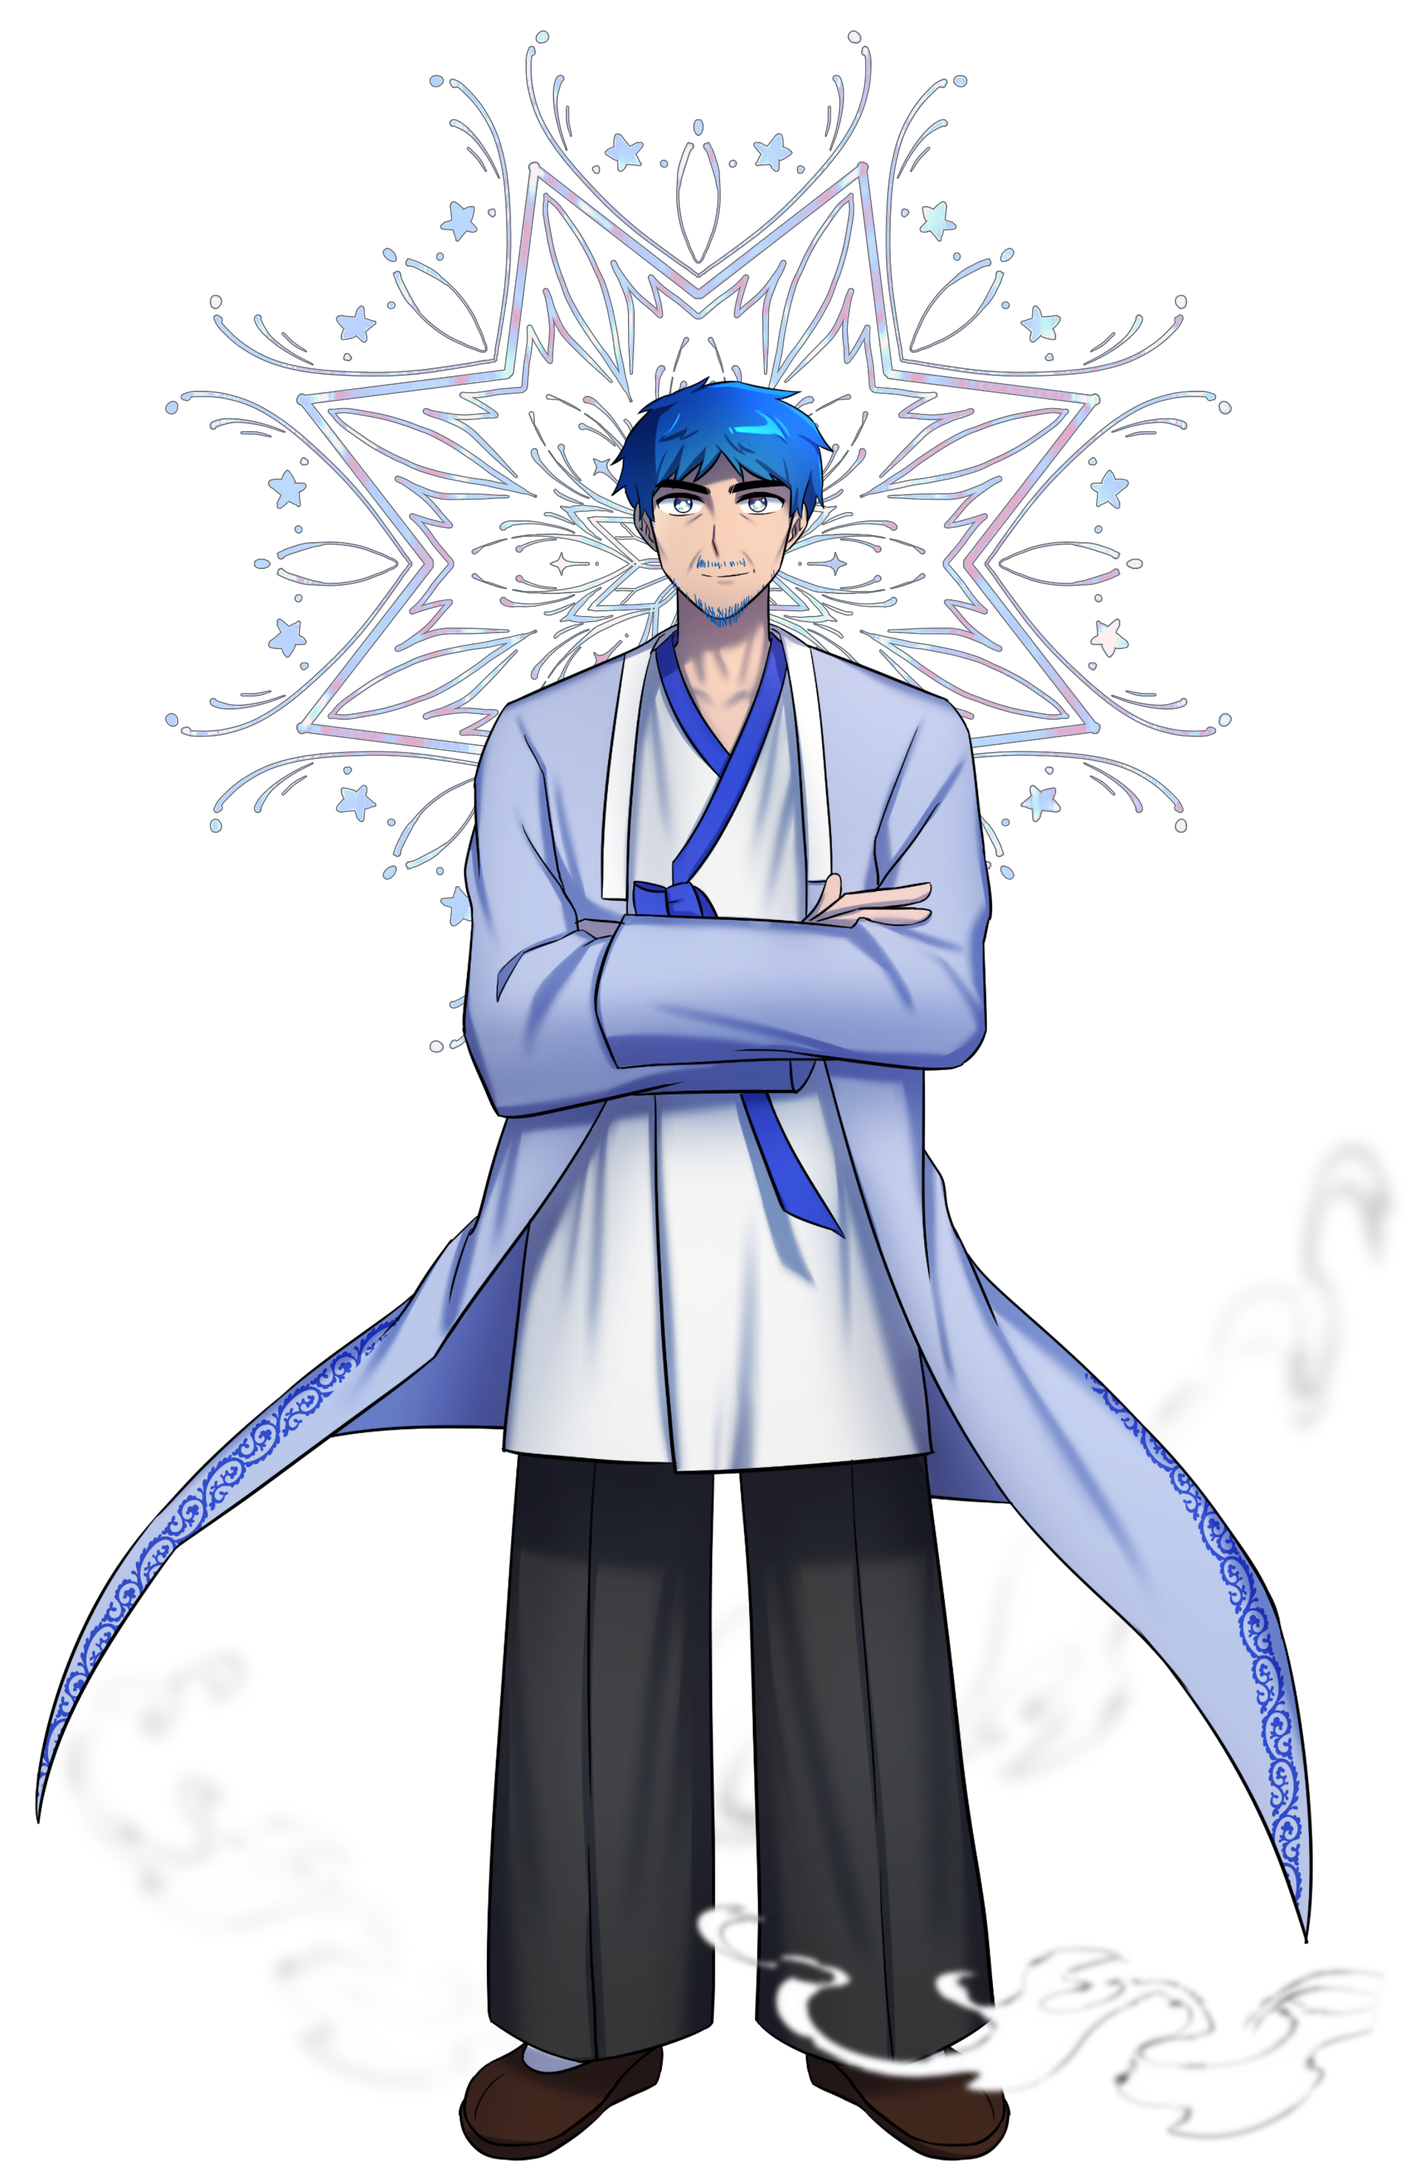
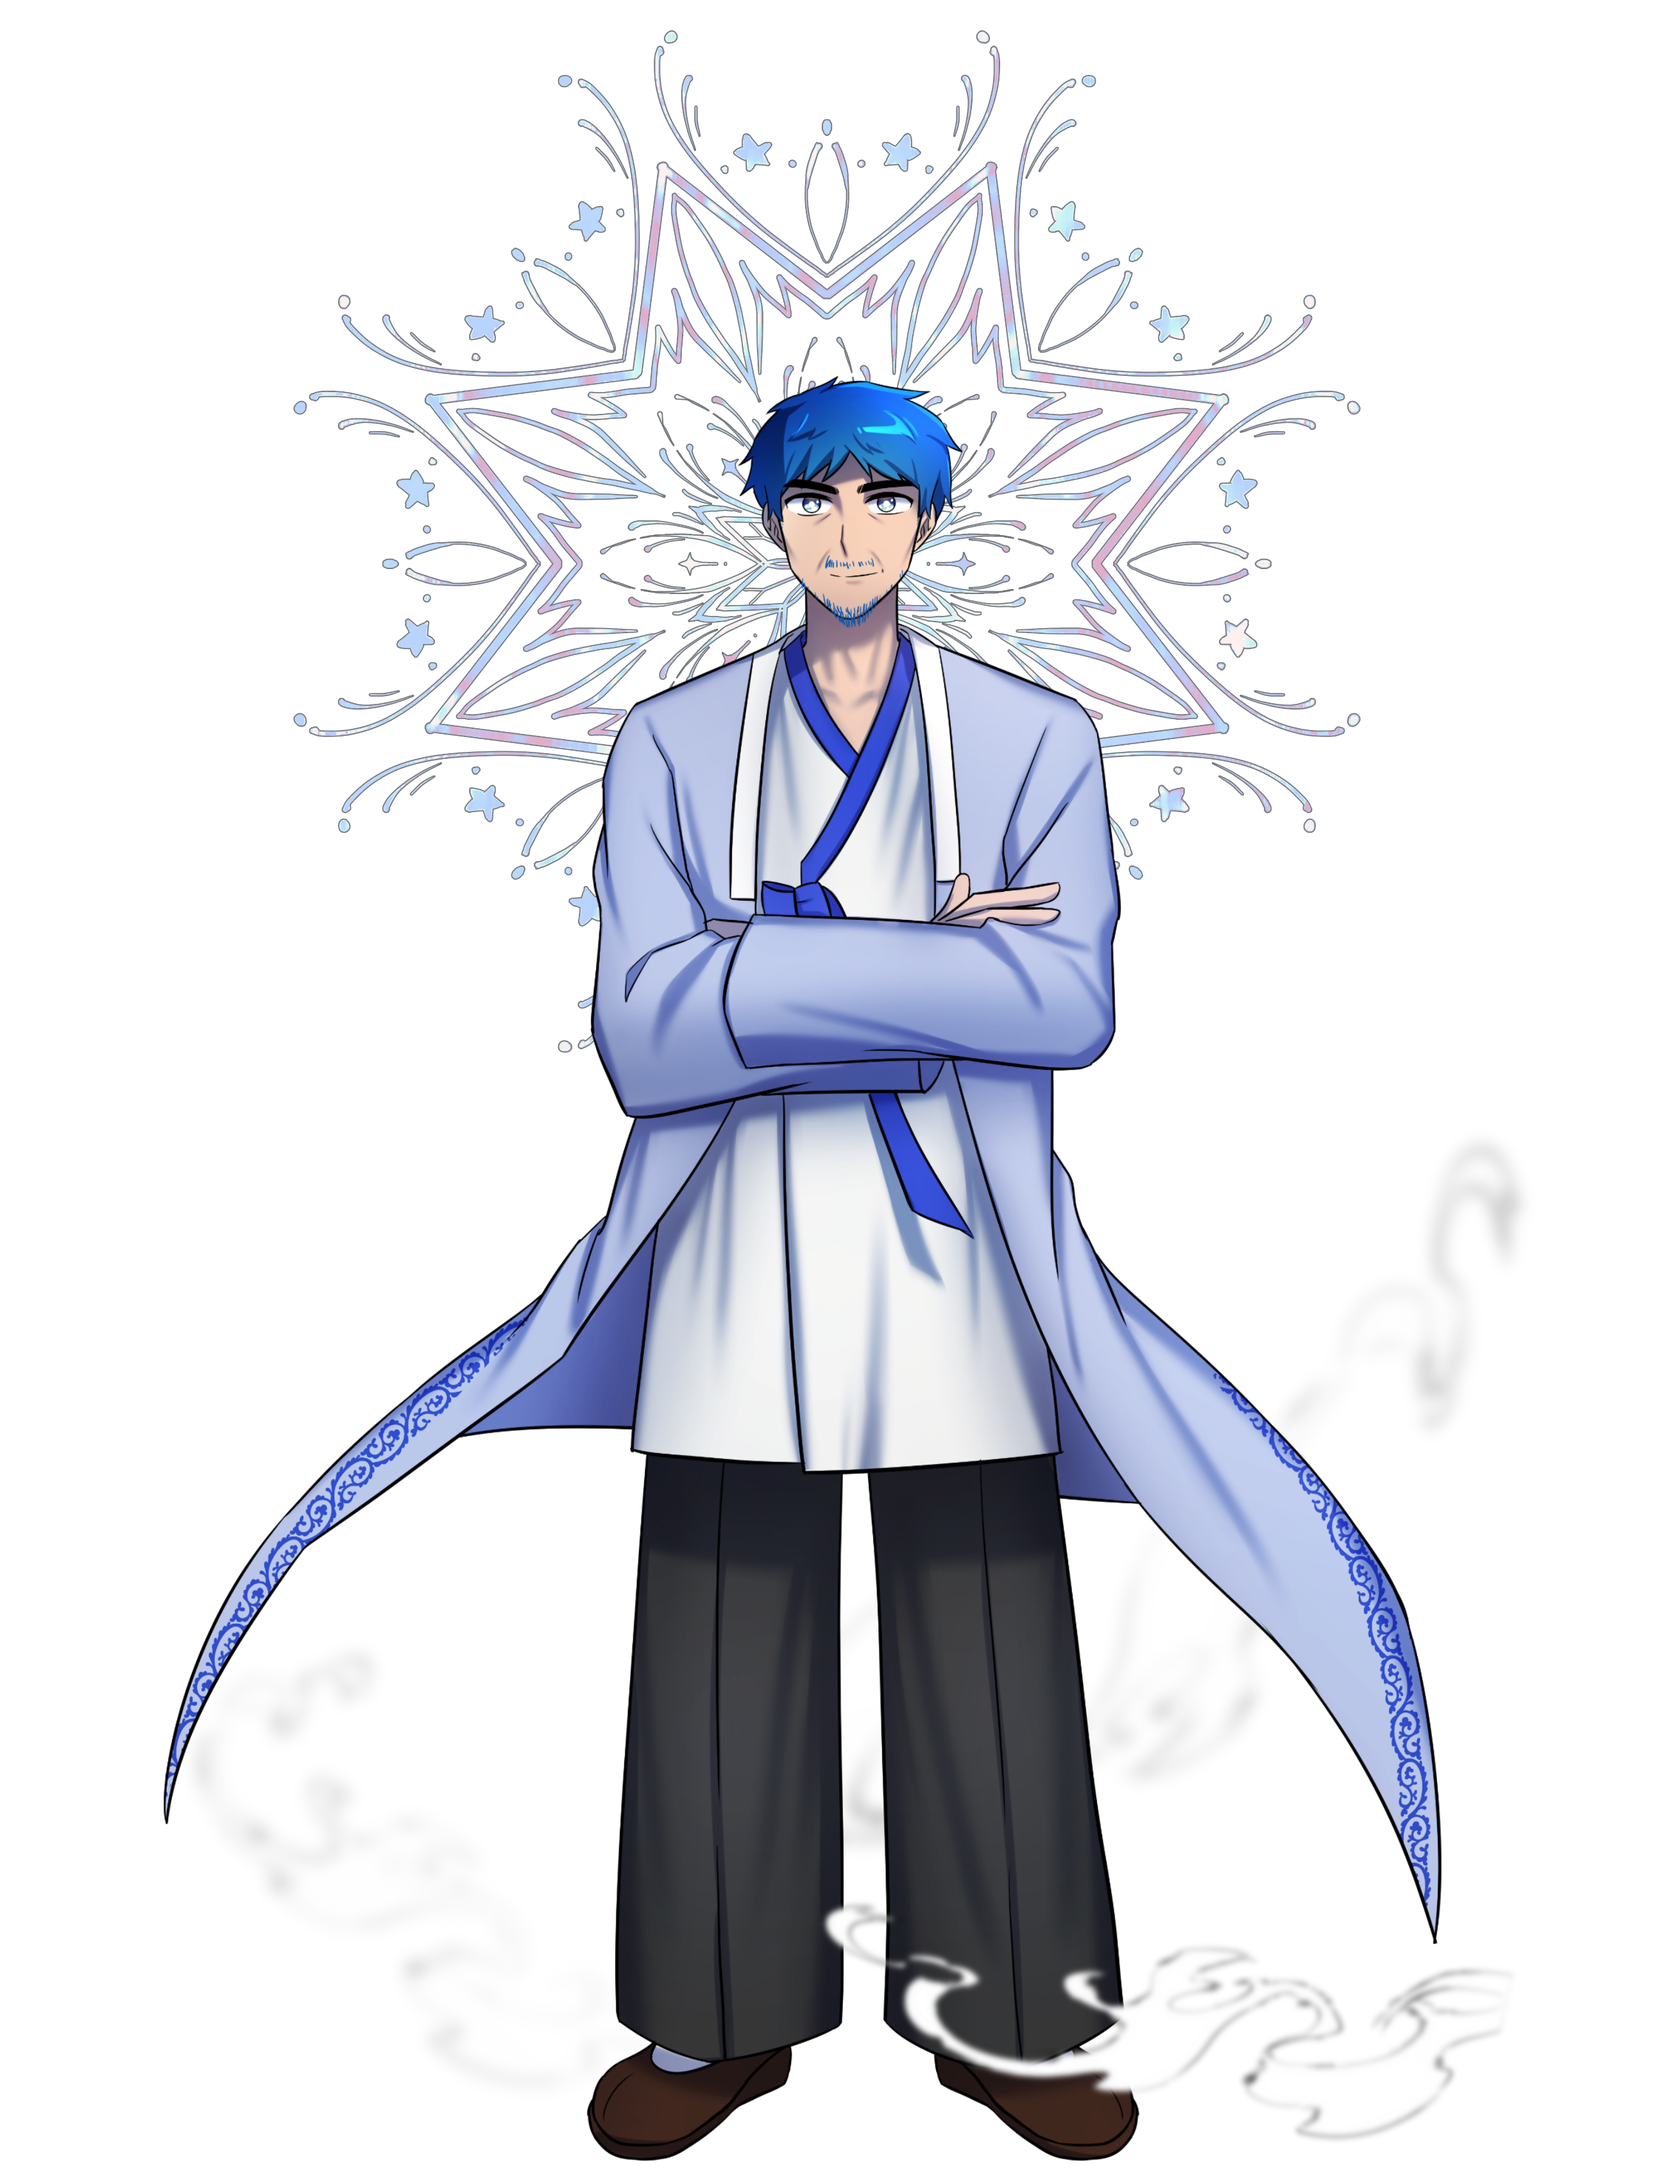
ono

diff --git a/somnia/js/ex2-1.js b/somnia/js/ex2-1.js
@@ -165,7 +165,7 @@ mbox13.addEventListener('click', function(){
     //신 상태일 때 -> 업데이트 필요
     else if (state==1){
         // '신' 캐릭터 정보 업데이트
-        image.setAttribute("src","../webproimg/Fairy1.png"); // '신' 캐릭터 이미지 경로로 수정
+        image.setAttribute("src","../webproimg/Fairy_full.png"); // '신' 캐릭터 이미지 경로로 수정
         text1.innerHTML = 
             '<h1>델루</h1><p>용기의 정령</p><br>' +
             // '신' 캐릭터에 대한 정보 업데이트
@@ -178,7 +178,49 @@ mbox13.addEventListener('click', function(){
             '정령들 중 키가 가장 작은데, 스스로 이것을 단점이라 생각하지는 않지만<br>'+
             '막내로 오해받는 일이 잦아 가끔 욱하는 것이 보인다. </p><br><br>'+
             '<h3>능력</h3>'+
-            '<p>검을 이용한 강한 공격과 작은 지속 피해를 주며 플레이어에게 공격력 증가 버프를 부여한다.</p>';
+            '<p>검을 이용한 강한 공격과 작은 지속 피해를 주며 플레이어에게 공격력 증가 버프를 부여한다.</p>'+
+            '<br><br><br><br><br>'+
+
+            '<h1>에리드</h1><p>희망의 정령</p><br>' +
+            // '신' 캐릭터에 대한 정보 업데이트
+            '<p>145cm<br><br>' +
+            '정령들 중 셋째. 어떠한 상황에서든 희망을 전하는 성격으로, 타고난 운이 좋은 편이다.<br>'+
+            '가장 웃음이 많은 편으로 밝고 긍정적인 기운을 지녀 좋건 나쁘건 <br>'+
+            '주변인에게 끼치는 영향이 지대하다.<br><br>'+
+            '무엇이건 좋은 것을 먼저 보는 성향이 강해 울프의 봉인 당시에도<br>'+
+            '약간의 측은지심을 느낄 정도로 여린 면이 있다.<br>'+
+            '세상에 희망을 나누는 것으로 봉인의 주축을 맡고 있음에도<br>'+
+            '언젠가는 울프 또한 회개할 수 있으리라 믿는다.</p><br><br>'+
+            '<h3>능력</h3>'+
+            '<p>올리브 나무를 이용하여 방어를 하며 올리브 주변에 있으면 작은 치유를 받는다.<br>'+
+            '더해 플레이어에게 받는 피해 감소 버프를 부여한다.</p>'+
+
+            '<br><br><br><br><br><br>'+
+
+            '<h1>로지</h1><p>지혜의 정령</p><br>' +
+            // '신' 캐릭터에 대한 정보 업데이트
+            '<p>179cm<br><br>' +
+            '정령들 중 둘째. 정령들 중 가장 지혜로우며 항상 온화하게 웃는 낯을 유지한다.<br>'+
+            '침착하고 조용한 성격으로 보이지만 은근히 숨기는 것도 많은 미스터리한 성격. <br>'+
+            '여태 화난 모습을 보인적 없음에도 가장 화나게 하면 안 되는 존재 중 하나로 손꼽힌다.<br><br>'+
+            '정령들 중 가장 말을 잘하여 첫째인 델루가 있음에도 대표로 인식되어 나서는 경우가 잦고,<br>'+
+            '종종 델루가 이것에 투덜거리기는 하지만 그 또한 로지를 의지하고 있음을 인정했다.<br><br>'+
+            '<h3>능력</h3>'+
+            '<p> 지식과 통찰력을 이용하여 적의 약점을 알아내고 적에게 받는 피해량 증거 디버프를 부여한다.</p>'+
+
+            '<br><br><br><br><br><br><br><br><br><br><br><br><br><br><br><br><br><br><br>'+
+
+            '<h1>알리즈</h1><p>치유의 정령</p><br>' +
+            // '신' 캐릭터에 대한 정보 업데이트
+            '<p>168cm<br><br>' +
+            '정령들 중 넷째. 막내인 덕에 모두에게 사랑받지만, 겁이 많고 소심한 탓에<br>'+
+            '자신을 뽐내거나 드러낼 줄 모른다.<br>'+
+            '그러나 치유라는 가장 강한 능력을 가지고 있기에 전투에서도 도움이 될 수 있도록 항상 노력하고 있다.<br><br>'+
+            '생각과 행동이 약간 굼뜬 경향이 있으며, 자신의 능력은 강하고 유용하지만<br>'+
+            '그만큼 악용될 여지가 있다는 것을 인지하여 확실한 상황이 아니라면 <br>'+
+            '결코 능력을 함부로 사용하거나 드러내지 않는다.</p><br><br>'+
+            '<h3>능력</h3>'+
+            '<p>생명의 힘을 이용하여 파티원 전체를 치유하는 능력이 있으며 강한 단일 치유 능력을 가지고 있다.</p>';
 
             
     }

diff --git a/somnia/css/ex2.css b/somnia/css/ex2.css
@@ -118,8 +118,8 @@ h4{
 }
 
 .Cbox-Full>img, .Cbox-Full2>img{
-    /* width: 80%; */
-    height: 550px;
+    width: 450px;
+    /* height: 550px; */
 }
 
 .Cbox-Full2{
